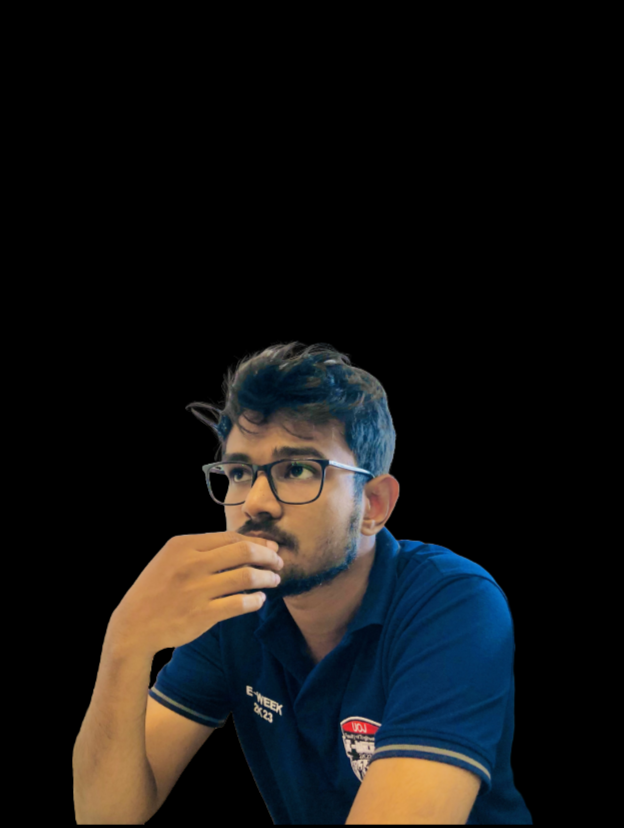
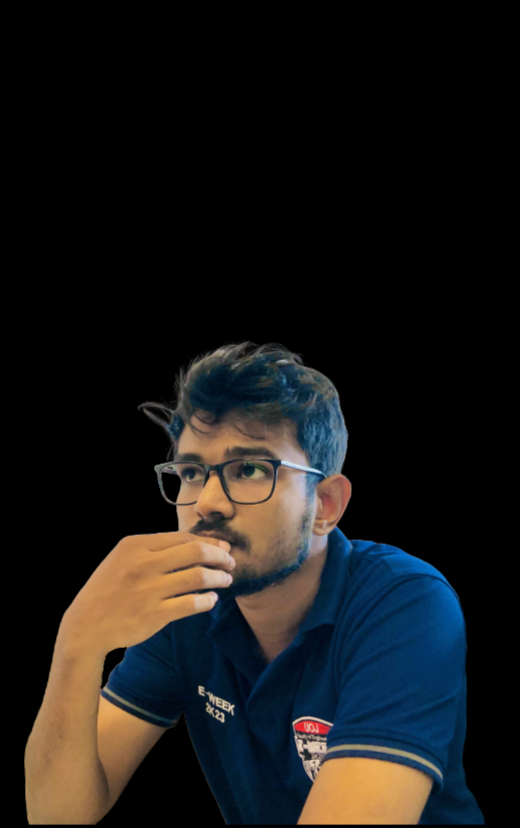
Fix About me Image Height Problem

diff --git a/style.css b/style.css
@@ -71,28 +71,35 @@ nav ul li a:hover::after {
   color: #fff;
 }
 #about p {
-  font-size: 18px;
+  font-size: 15px;
   line-height: 1.8;
 }
 .row {
   display: flex;
   justify-content: space-between;
   flex-wrap: wrap;
+  align-items: stretch;
 }
 .about-col-1 {
   flex-basis: 35%;
+  background-color: #080808;
+  border-radius: 15px;
+  display: flex;
+  flex-direction: column;
+  justify-content: flex-end;
 }
 .about-col-1 img {
   width: 100%;
   height: auto;
   border-radius: 15px;
   object-fit: contain;
+  display: block;
 }
 .about-col-2 {
   flex-basis: 60%;
 }
 .sub-title {
-  font-size: 60px;
+  font-size: 42px;
   font-weight: 600;
   color: #fff;
 }
@@ -133,6 +140,7 @@ nav ul li a:hover::after {
 }
 .tab-contents {
   display: none;
+  min-height: 280px;
 }
 .tab-contents.active-tab {
   display: block;
